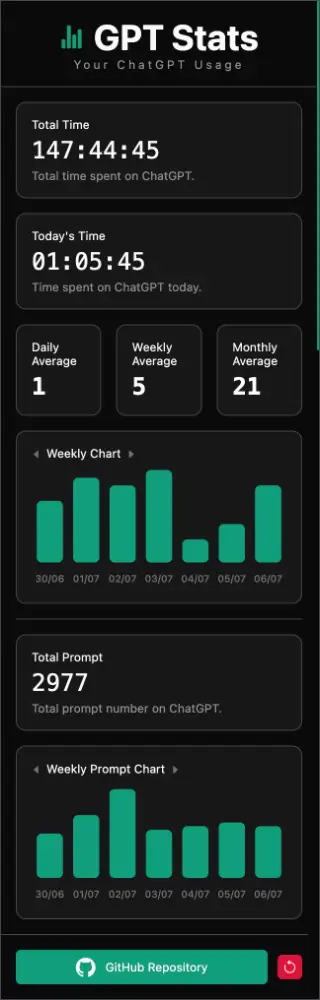
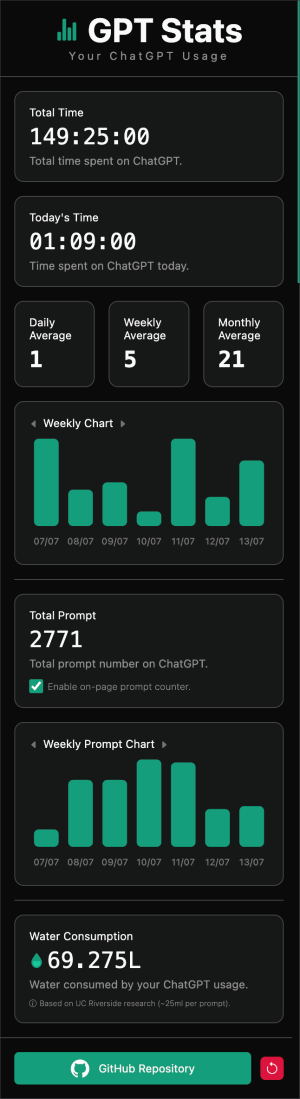
Update README.md with new screenshot.

diff --git a/README.md b/README.md
@@ -31,13 +31,14 @@ GPT Stats is a lightweight Chrome extension that tracks [ChatGPT](https://chatgp
 <br><br>
 All data is stored locally in your browser using `chrome.storage.local`, ensuring full control, offline compatibility, and compliance with modern extension security standards.
 <br><br>
-Whether you're a student, developer, productivity-focused, a data enthusiast, or simply curious about your usage habits, GPT Stats provides clear insights without compromising performance or privacy.
+Whether you're a student, developer, productivity-focused, a data enthusiast, or simply curious about your usage habits and environmental impact, GPT Stats provides clear insights without compromising performance or privacy.
 
 ## 🎓 <span id="objectives">Objectives</span>
 
 - Track the time spent on ChatGPT.
 - Count the number of prompts sent.
 - Provide a visual dashboard using `Chart.js`.
+- Estimate water consumption based on usage patterns.
 - Persist usage data across browser sessions.
 - Ensure everything works offline, locally, with no external dependencies.
 
@@ -156,13 +157,12 @@ chrome://extensions/
     <picture>
         <source media="(prefers-color-scheme: dark)" srcset="./assets/images/screenshot-dark.webp">
         <source media="(prefers-color-scheme: light)" srcset="./assets/images/screenshot-light.webp">
-        <img src="" alt="Screenshots">
+        <img src="./assets/images/screenshot-light.webp" alt="Screenshot">
     </picture>
 </p>
 
 ## 🔧 <span id="whats-next">What's next?</span>
 
-- Add a persistent prompt counter overlay directly within the ChatGPT interface.
 - Implement CSV export of usage data.
 - Improve or redesign the mobile layout.
 - Add additional usage metrics.
